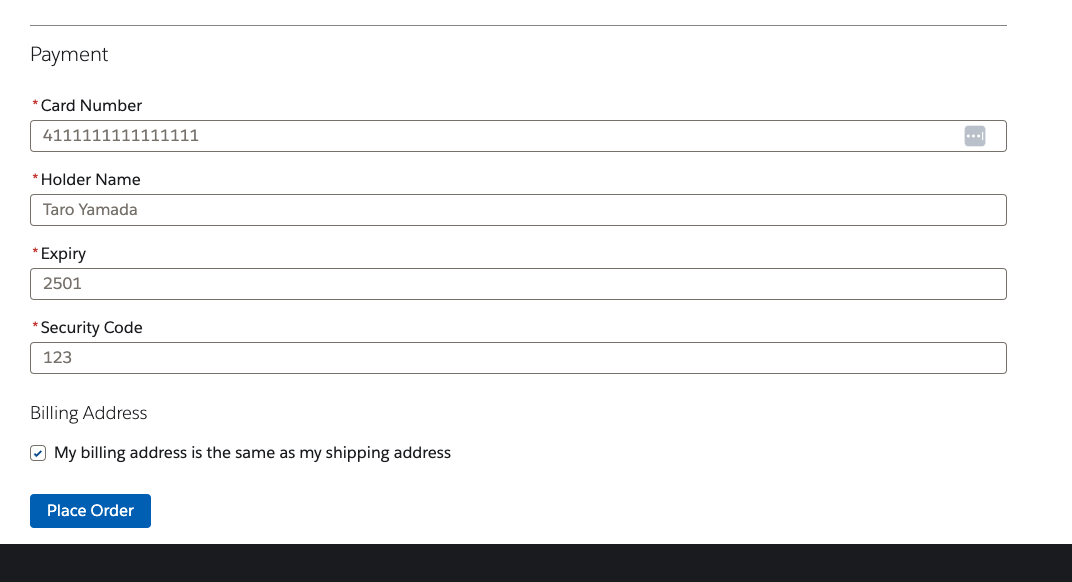
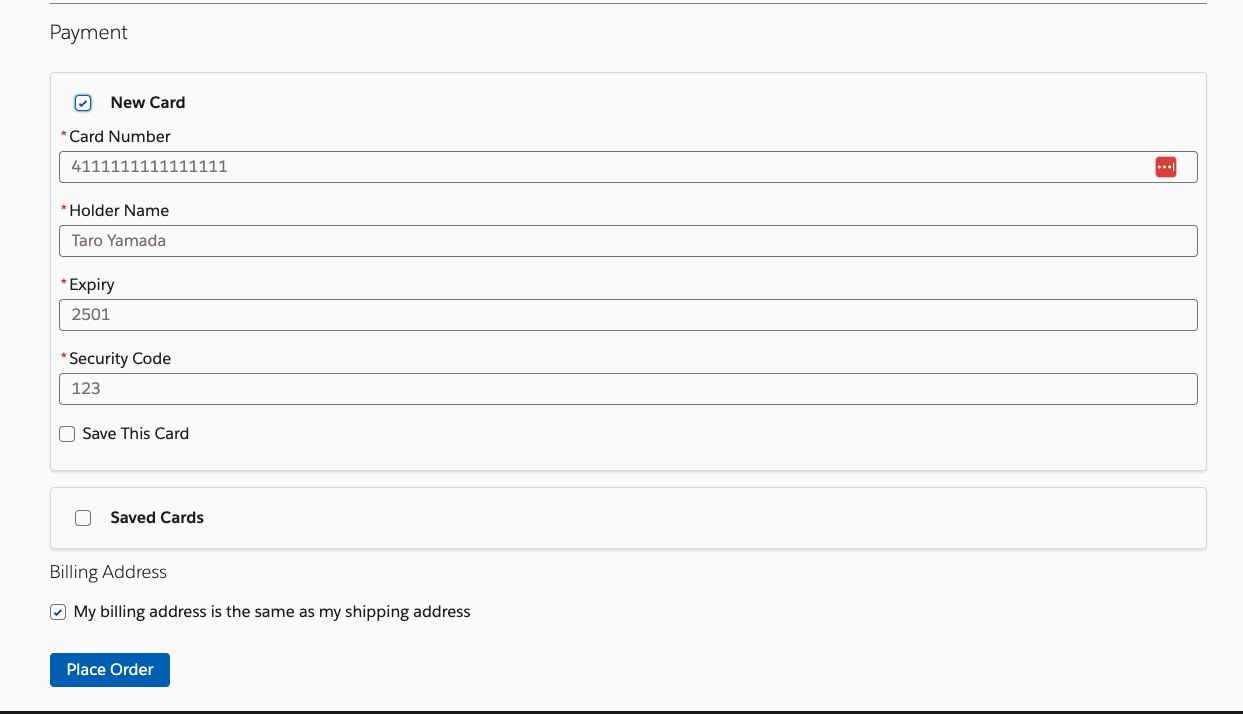
mod

Changed region(s): [[0.0308, 0.0, 0.9851, 0.6495], [0.0, 0.6495, 1.0, 1.0], [0.9543, 0.433, 0.9851, 0.4639]]

diff --git a/package/GMOPayment/force-app/main/default/lwc/gmoCardElementCardList/gmoCardElementCardList.js b/package/GMOPayment/force-app/main/default/lwc/gmoCardElementCardList/gmoCardElementCardList.js
@@ -74,8 +74,10 @@ export default class GmoCardElementCardList extends LightningElement {
             if (found) {
                 card.checked = card.CardSeq === found.CardSeq
             } else {
-                this._select = null
-                card.checked = card.DefaultFlag === '1'
+                if(card.DefaultFlag === '1'){
+                    this._select = card.CardSeq
+                    card.checked = true
+                }
             }
         }
         return this._cardList
@@ -88,7 +90,7 @@ export default class GmoCardElementCardList extends LightningElement {
             if ('ErrInfo' in cards === false) {
                 this._cardList = this._makeCardList(cards)
                 this._cardList = this._cardList.map(this._formatList)
-            } else if (cards['ErrInfo'].includes('E01240002')) {
+            } else if (cards['ErrInfo'].includes('E01240002') || cards['ErrInfo'].includes('E01390002')) {
                 this._cardList = []
             }
             this._cardList = this._cardList.map(this._formatList)

diff --git a/package/GMOPayment/force-app/main/default/lwc/gmoCardElement/gmoCardElement.js b/package/GMOPayment/force-app/main/default/lwc/gmoCardElement/gmoCardElement.js
@@ -16,6 +16,7 @@ import GMOPayment_TokenErrorUnknown from '@salesforce/label/c.GMOPayment_TokenEr
 import GMOPayment_ErrorPleaseSelect from '@salesforce/label/c.GMOPayment_ErrorPleaseSelect';
 import GMOPayment_ErrorInvalidCardForm from '@salesforce/label/c.GMOPayment_ErrorInvalidCardForm';
 import saveCard from '@salesforce/apex/GMOPaymentController.saveCard';
+import saveMember from '@salesforce/apex/GMOPaymentController.saveMember';
 
 export default class GmoCardElement extends LightningElement {
 
@@ -121,6 +122,14 @@ export default class GmoCardElement extends LightningElement {
     }
 
     async _saveCard(token) {
+        const member = await saveMember()
+        if ("ErrInfo" in member) {
+            if (!member['ErrInfo'].includes('E01390010')) {
+                this._throwGMOError(member)
+            }
+        }
+
+        E01390010
         const card = await saveCard({ token })
         if ("ErrInfo" in card) {
             this._throwGMOError(card)

diff --git a/package/GMOPayment/README.md b/package/GMOPayment/README.md
@@ -1,6 +1,7 @@
 # Sample GMO Payment Adapter
 This sample package contain component to implement client side tokenization flow payment without 3DS.
 ![](images/form.png)
+![](images/list.png)
 
 ## Setting instruction
 
@@ -19,7 +20,5 @@ For scratch org:
     ![](images/csp.png)
 
 
-## Out of scope for now(2022/01)
-2 features below need `checkoutApi.paymentClientRequest` API.
-- List saved cards
-- Select and use saved card
+## Out of scope for now(2022/02)
+- Refund
